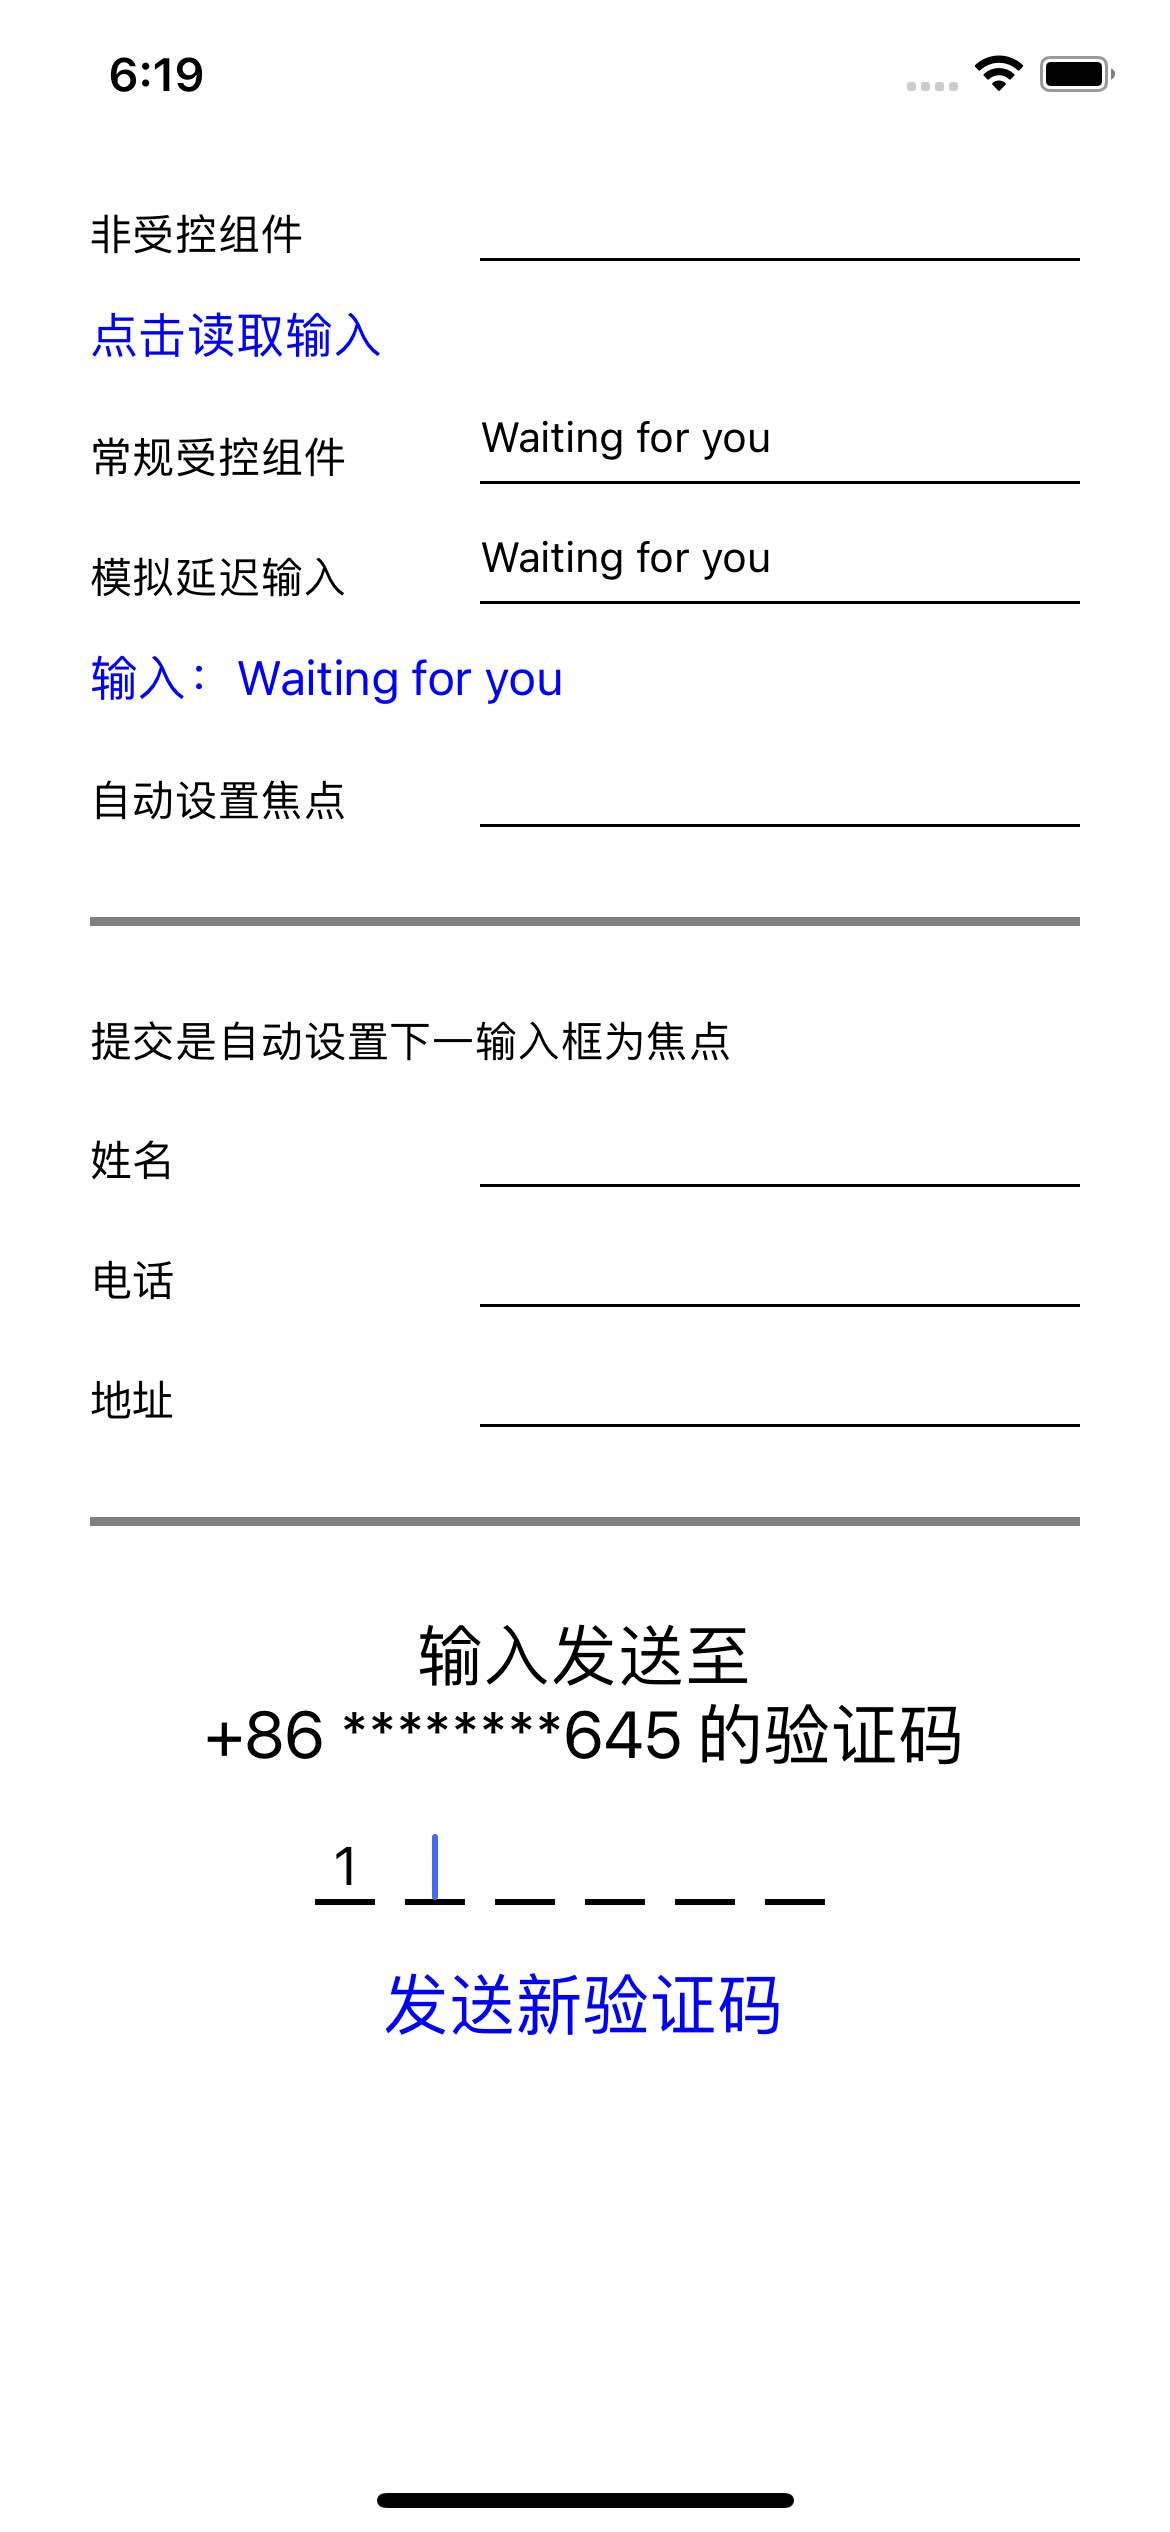
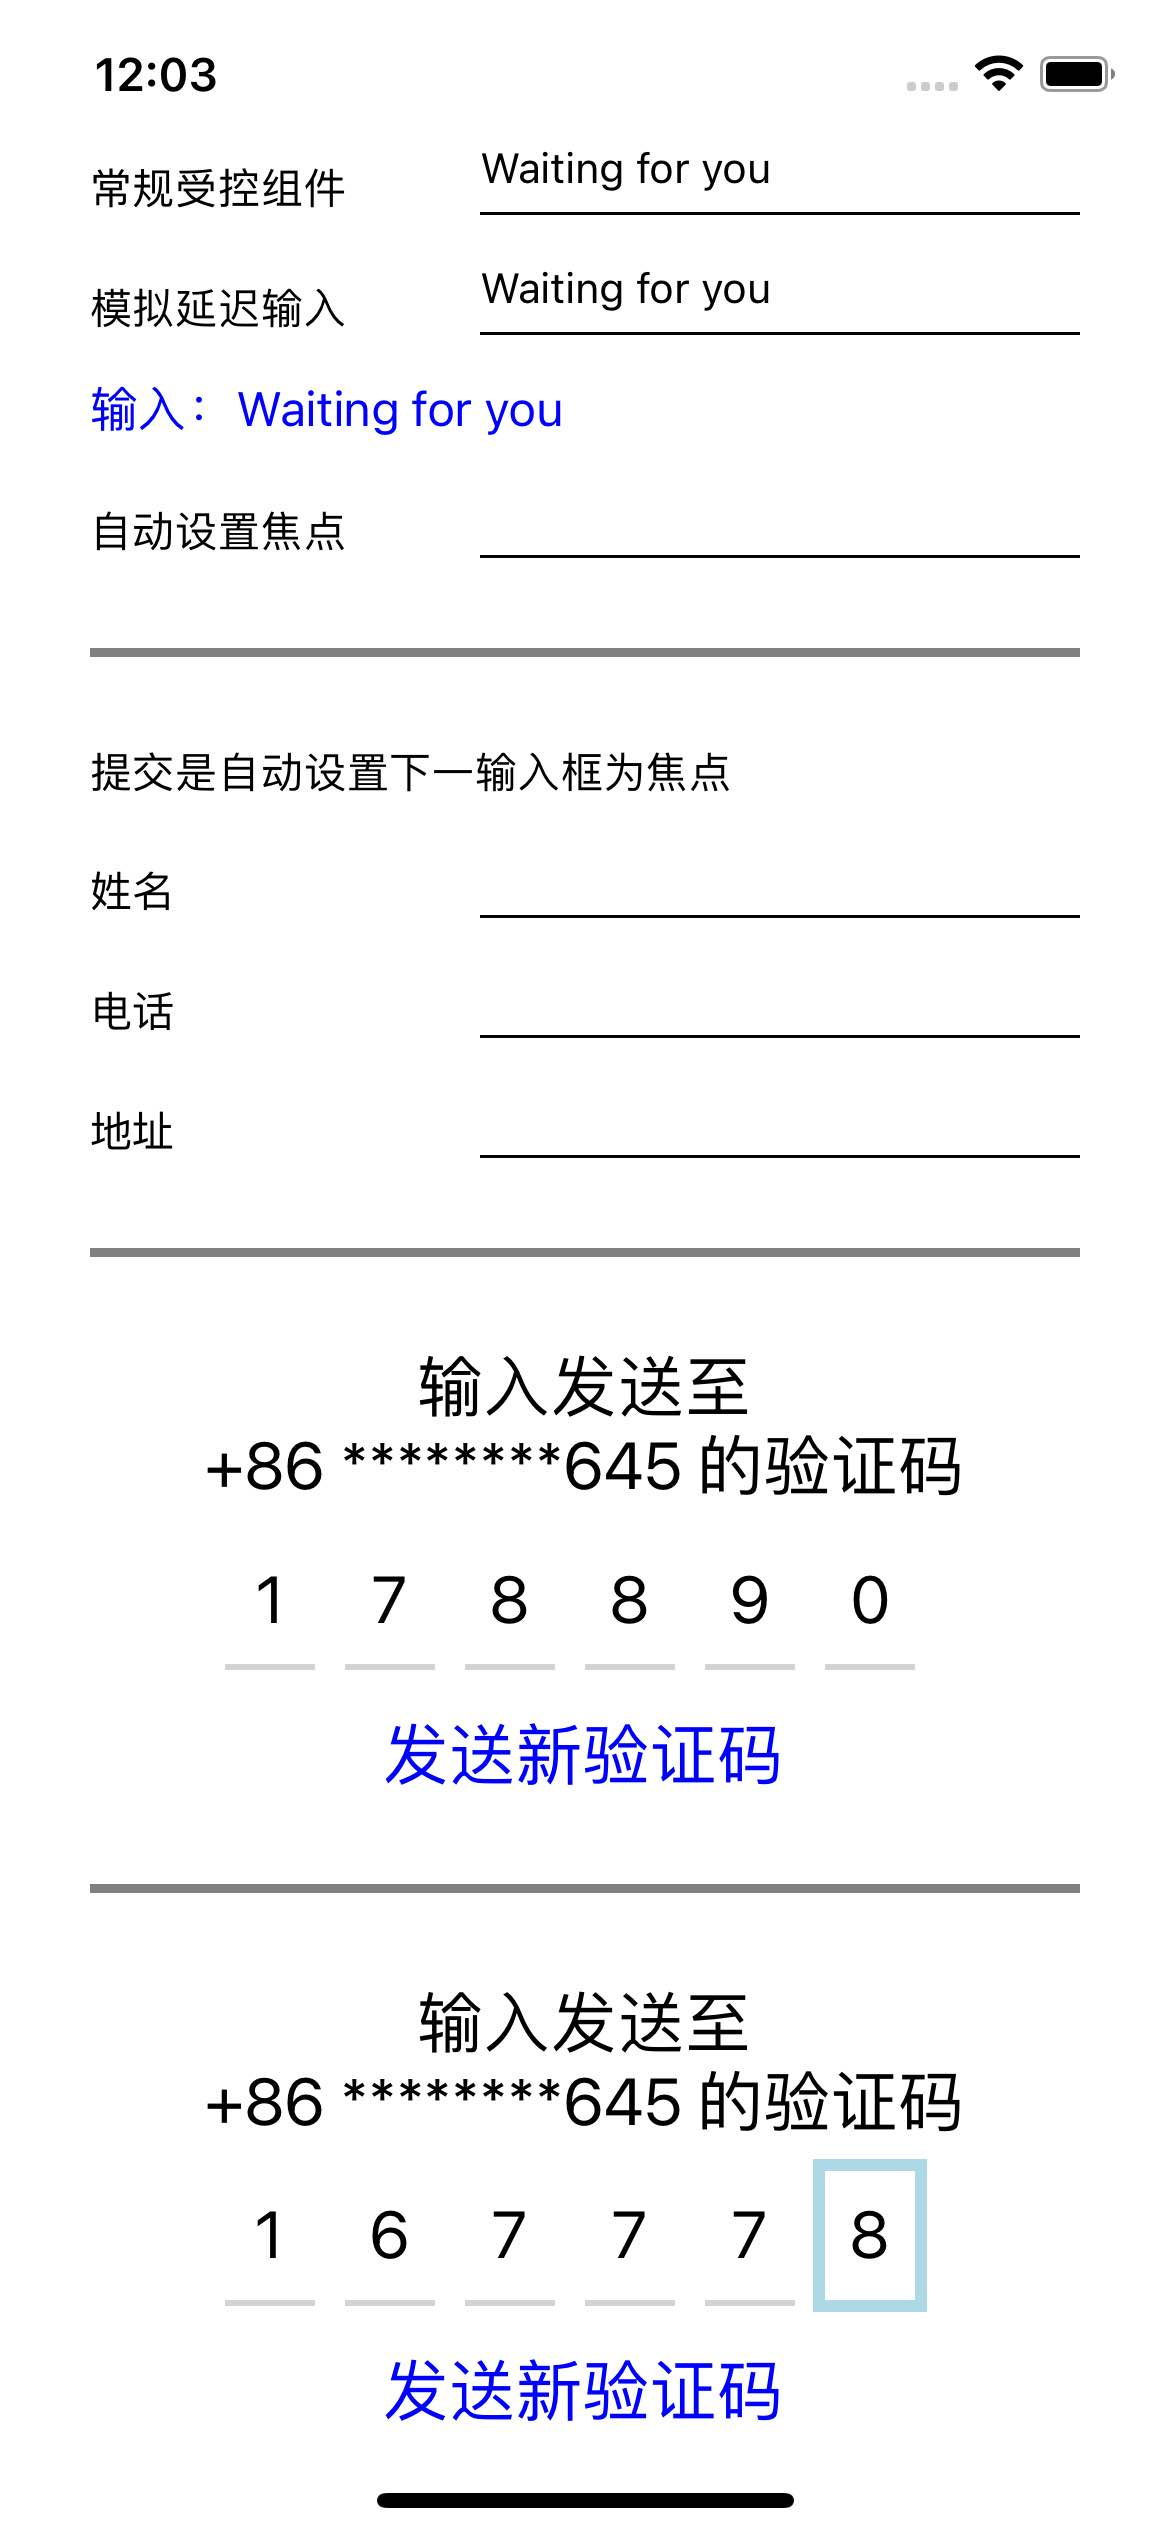
[add]: code verification v2

diff --git a/AwesomeProject/src/c07/CodeVerificationV2.tsx b/AwesomeProject/src/c07/CodeVerificationV2.tsx
@@ -1,0 +1,88 @@
+import React, {useCallback, useRef, useState} from 'react';
+import {View, TextInput, Text, Alert, Pressable} from 'react-native';
+
+import {Styles} from './Styles';
+
+const CODE_LENGTH = 6;
+
+export default function CodeVerificationV2() {
+  const inputRef = useRef<TextInput>(null);
+  const [text, setText] = useState('');
+  const [focused, setFocused] = useState(false);
+  const codes = text.split('');
+
+  const handlePress = useCallback(() => {
+    inputRef.current.focus();
+  }, []);
+  const handleFocus = useCallback(() => {
+    setFocused(true);
+  }, []);
+  const handleBlur = useCallback(() => {
+    setFocused(false);
+  }, []);
+  const handleChange = value => {
+    if (text.length >= CODE_LENGTH) {
+      handleSubmit();
+    } else {
+      let newText = (text + value).slice(0, CODE_LENGTH);
+      setText(newText);
+    }
+  };
+  const handleKeyPress = e => {
+    if (e.nativeEvent.key === 'Backspace') {
+      let newText = text.slice(0, text.length - 1);
+      setText(newText);
+    }
+  };
+  const handleSubmit = () => {
+    if (text.length >= CODE_LENGTH) {
+      Alert.alert('Verification Code', text);
+    }
+  };
+  const handleResend = () => {
+    Alert.alert('已请求新验证码！');
+  };
+
+  return (
+    <>
+      <View style={Styles.newFormField} />
+      <View style={Styles.cvContainer}>
+        <Text style={Styles.cvHeader}>
+          输入发送至 {'\n'}+86 ********645 的验证码
+        </Text>
+
+        <Pressable onPress={handlePress}>
+          <View style={Styles.cv2_wrap}>
+            <TextInput
+              ref={inputRef}
+              value=""
+              style={Styles.cv2_input}
+              onFocus={handleFocus}
+              onBlur={handleBlur}
+              onChangeText={handleChange}
+              onKeyPress={handleKeyPress}
+              onSubmitEditing={handleSubmit}
+            />
+            {[...Array(CODE_LENGTH).keys()].map(index => {
+              const selected = codes.length === index;
+              const filled =
+                codes.length === CODE_LENGTH && index === CODE_LENGTH - 1;
+              return (
+                <View style={Styles.cv2_display} key={index}>
+                  <Text style={Styles.cv2_text}>{codes[index] || ''}</Text>
+                  {(selected || filled) && focused && (
+                    <View style={Styles.cv2_shadows} />
+                  )}
+                </View>
+              );
+            })}
+          </View>
+        </Pressable>
+
+        <Text style={Styles.cvNewCode} onPress={handleResend}>
+          发送新验证码
+        </Text>
+      </View>
+    </>
+  );
+}

diff --git a/AwesomeProject/src/c07/Styles.js b/AwesomeProject/src/c07/Styles.js
@@ -26,33 +26,72 @@ export const Styles = StyleSheet.create({
     borderTopWidth: 3,
     borderColor: 'grey',
   },
-  // verification code
-  vcContainer: {
+  // code verification v1
+  cvContainer: {
     flexDirection: 'column',
     alignItems: 'center',
   },
-  vcHeader: {
+  cvHeader: {
     textAlign: 'center',
     fontSize: 22,
     fontWeight: '400',
   },
-  vcInputContainer: {
+  cvInputContainer: {
     flexDirection: 'row',
     alignItems: 'center',
-    marginTop: 20,
-    marginBottom: 20,
+    marginTop: 10,
+    marginBottom: 15,
   },
-  vcInputItem: {
-    fontSize: 18,
+  cvInputItem: {
+    fontSize: 22,
     fontWeight: '400',
     textAlign: 'center',
-    width: 20,
+    width: 30,
+    height: 45,
+    borderBottomColor: 'lightgrey',
     borderBottomWidth: 2,
     marginRight: 10,
   },
-  vcNewCode: {
+  cvNewCode: {
     fontSize: 22,
     fontWeight: '400',
     color: 'blue',
+  },
+  // code verification v2
+  cv2_wrap: {
+    position: 'relative',
+    flexDirection: 'row',
+    marginTop: 10,
+    marginBottom: 15,
+  },
+  cv2_input: {
+    position: 'absolute',
+    width: 30,
+    top: 0,
+    bottom: 0,
+    backgroundColor: 'transparent',
+    opacity: 0,
+  },
+  cv2_display: {
+    borderBottomWidth: 2,
+    borderBottomColor: 'lightgrey',
+    width: 30,
+    height: 45,
+    marginRight: 10,
+    alignItems: 'center',
+    justifyContent: 'center',
+    overflow: 'visible',
+  },
+  cv2_text: {
+    fontSize: 22,
+  },
+  cv2_shadows: {
+    position: 'absolute',
+    left: -4,
+    top: -4,
+    bottom: -4,
+    right: -4,
+    borderColor: 'lightblue',
+    borderWidth: 4,
   },
 });

diff --git a/AwesomeProject/src/c07/App.jsx b/AwesomeProject/src/c07/App.jsx
@@ -1,20 +1,24 @@
 import React from 'react';
-import {SafeAreaView} from 'react-native';
+import {SafeAreaView, ScrollView} from 'react-native';
 
 import UncontrolledTextInput from './UncontrolledTextInput';
 import ControlledTextInput from './ControlledTextInput';
 import AutoFocusTextInput from './AutoFocusTextInput';
 import AutoNextFocusTextInput from './AutoNextFocusTextInput';
 import CodeVerification from './homework';
+import CodeVerificationV2 from './CodeVerificationV2';
 
 export default function App() {
   return (
     <SafeAreaView style={{marginHorizontal: 30}}>
-      <UncontrolledTextInput />
-      <ControlledTextInput />
-      <AutoFocusTextInput />
-      <AutoNextFocusTextInput />
-      <CodeVerification />
+      <ScrollView>
+        <UncontrolledTextInput />
+        <ControlledTextInput />
+        <AutoFocusTextInput />
+        <AutoNextFocusTextInput />
+        <CodeVerification />
+        <CodeVerificationV2 />
+      </ScrollView>
     </SafeAreaView>
   );
 }
